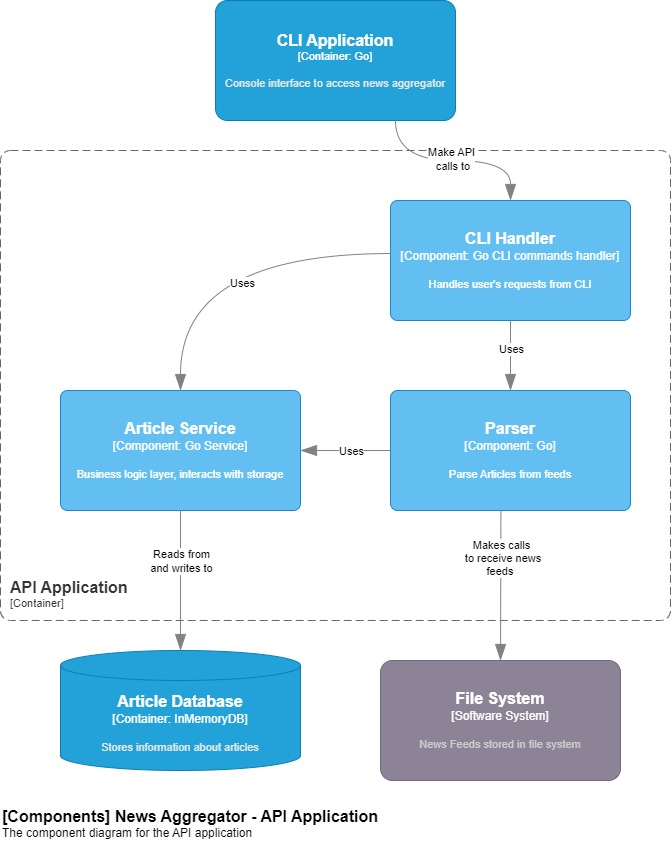
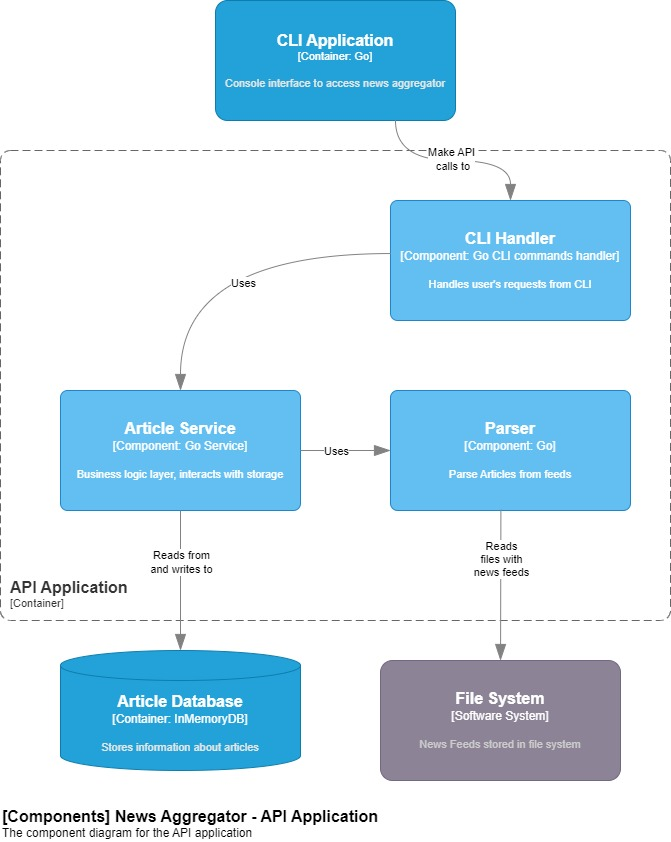
Update c4 diagrams and change pic in spec

diff --git a/docs/spec.md b/docs/spec.md
@@ -23,7 +23,7 @@ filter, and deliver news articles efficiently based on user preferences.
 
 The following diagram illustrates how elements collaborate at runtime:
 
-<img height="600" src="https://i.imgur.com/m19hE4k.jpeg" width="800"/>
+<img height="600" src="c4model/c4model-Dynamic.jpg" width="800"/>
 
 ## Use cases
 
